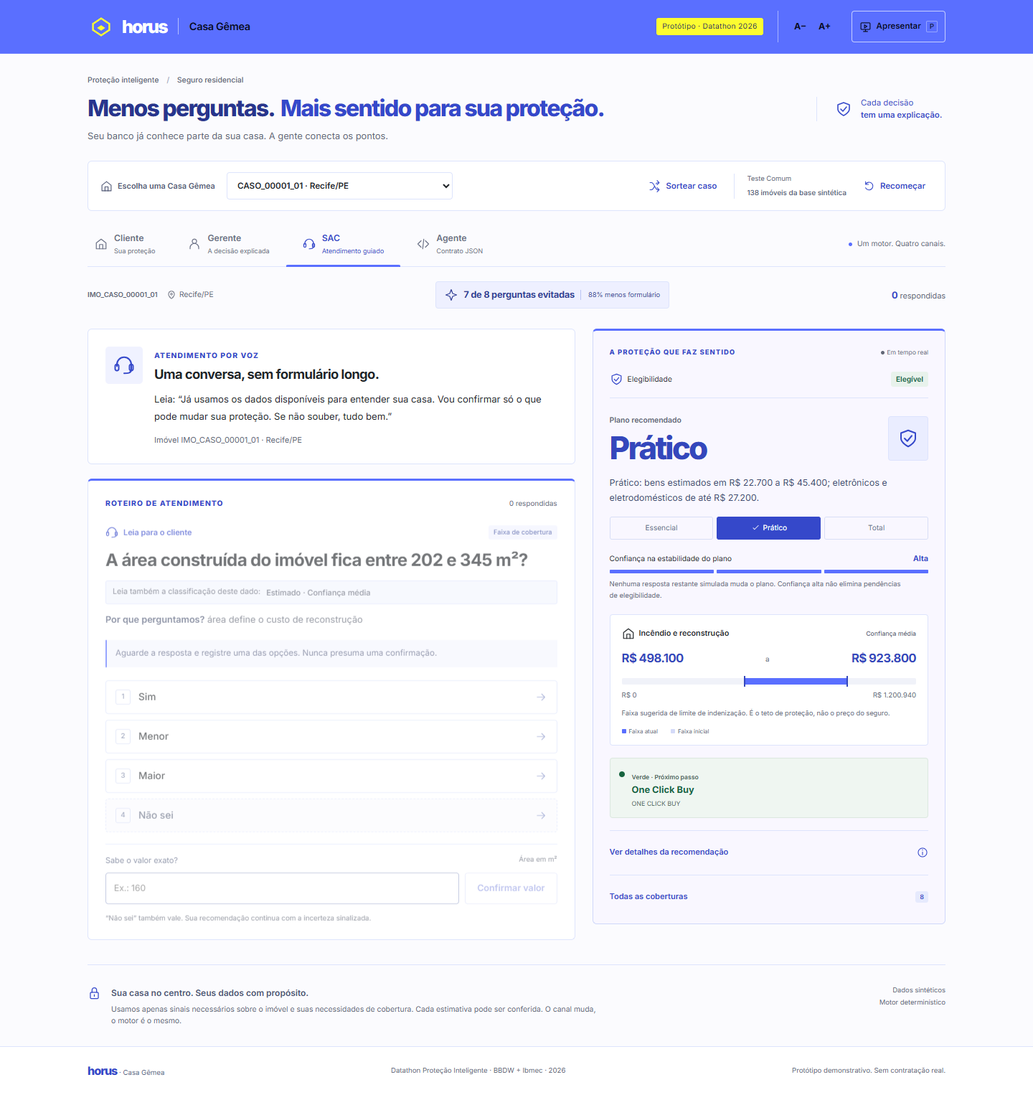
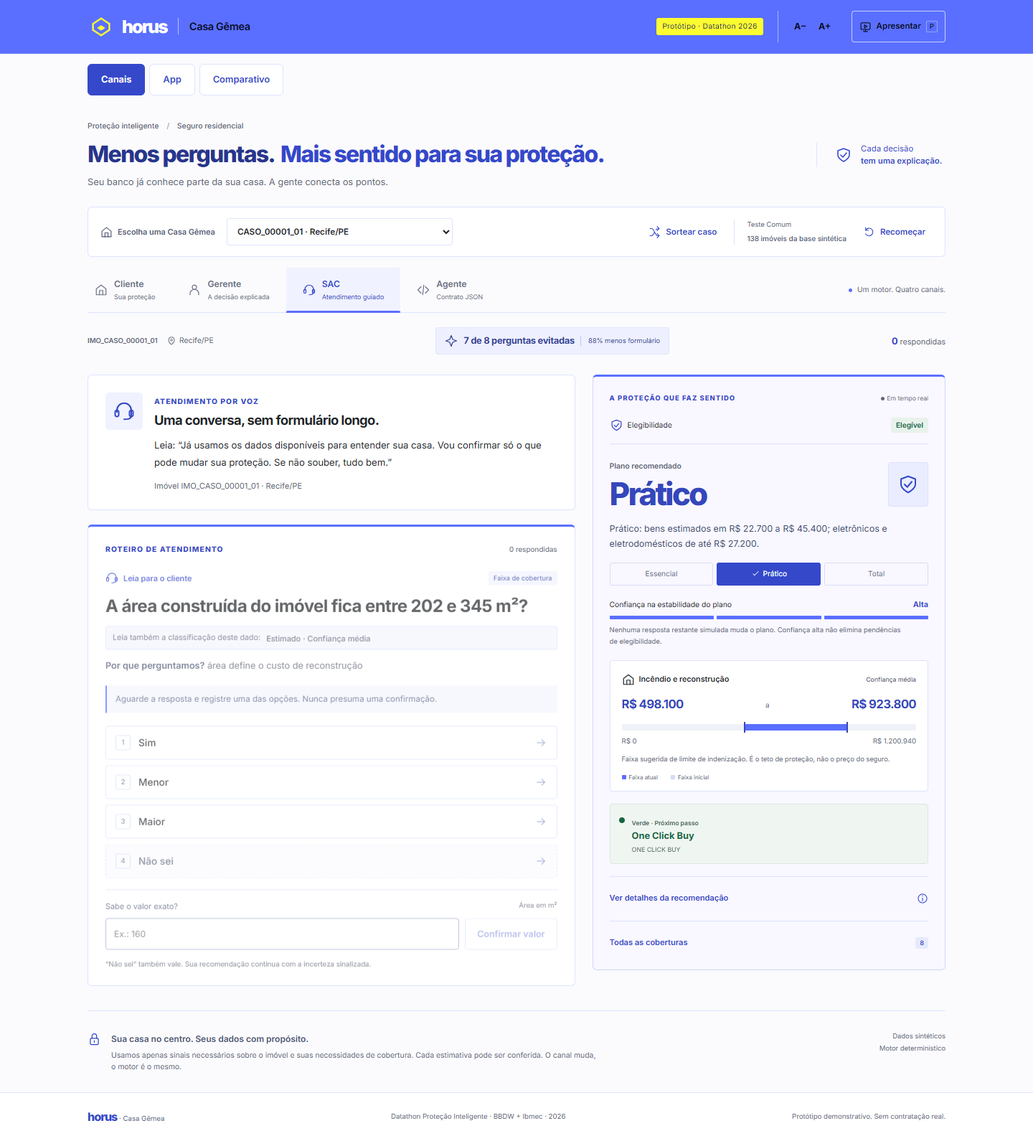
Web-app: aba App (simulador do app com 3 personas), Como o motor pensou e Comparativo das personas

diff --git a/web/src/AppSim.tsx b/web/src/AppSim.tsx
@@ -1,0 +1,110 @@
+import { useEffect, useRef, useState } from 'react'
+import type { Adicional, Respostas, ResultadoPersonalizado } from './types'
+import { buscarPersona, chaveAdicional, jornadaRotulo, personas } from './personas'
+import { planos, reais, texto } from './format'
+import { Icon } from './Icons'
+import { House } from './House'
+import { Modal } from './Modal'
+import { MotorSheet } from './MotorPensou'
+
+const tons = { EXPRESS: 'tom-express', GUIADA: 'tom-guiada', HUMANA: 'tom-humana' } as const
+const nivelTexto = (n: string) => (n === 'ALTA' ? 'alta' : n === 'MEDIA' ? 'média' : 'baixa')
+
+function CartaoAdicional({ a, resposta, dispensado, onResponder, onAdicionar, onDispensar }: {
+  a: Adicional; resposta?: string; dispensado: boolean; onResponder: (v: string) => void; onAdicionar: () => void; onDispensar: () => void;
+}) {
+  const adicionado = resposta === 'SIM' || resposta === 'ADD'
+  return <article className={`sim-add ${adicionado ? 'added' : ''}`} aria-label={a.nome}>
+    <header><h4>{a.nome}</h4><span className={`sim-badge n-${a.nivel.toLowerCase()}`}>Necessidade {nivelTexto(a.nivel)} · {a.necessidade}</span></header>
+    <p className="sim-why"><b>Por que é para você:</b> {texto(a.por_que_para_voce)}</p>
+    {a.faixa_valor_min !== undefined && a.faixa_valor_max !== undefined && <p className="sim-range">Limite sugerido de indenização: <b>{reais(a.faixa_valor_min)} a {reais(a.faixa_valor_max)}</b><small> Estimativa, confiança média. Não é preço.</small></p>}
+    <details><summary>Cuidados e base</summary><p>{texto(a.cuidado)} ({a.clausula})</p></details>
+    {a.pergunta && !adicionado && !dispensado && <div className="sim-ask" role="group" aria-label={a.pergunta}><p>{texto(a.pergunta)}</p>
+      <div>{[['SIM', 'Sim'], ['NAO', 'Não'], ['NAO_SEI', 'Não sei']].map(([v, r]) => <button key={v} className="sim-chip" onClick={() => onResponder(v)}>{r}</button>)}</div></div>}
+    {adicionado ? <p className="sim-done" role="status"><Icon name="check" size={16} />Adicionado ao seu plano</p>
+      : !dispensado && (!a.pergunta || resposta === 'NAO_SEI') && <div className="sim-actions"><button className="button primary" onClick={onAdicionar}>Adicionar</button><button className="text-button" onClick={onDispensar}>Agora não</button></div>}
+    {dispensado && <p className="small-note">Deixamos de lado por enquanto.</p>}
+  </article>
+}
+
+export function AppSim({ onComparar }: { onComparar: () => void }) {
+  const [id, setId] = useState(personas[0].id)
+  const [respostas, setRespostas] = useState<Record<string, Respostas>>({})
+  const [data, setData] = useState<ResultadoPersonalizado | null>(null)
+  const [erro, setErro] = useState('')
+  const [tela, setTela] = useState<'home' | 'jornada'>('home')
+  const [personalizar, setPersonalizar] = useState(true)
+  const [recibos, setRecibos] = useState(false)
+  const [motor, setMotor] = useState(false)
+  const [escolhas, setEscolhas] = useState<Record<string, string>>({})
+  const [dispensados, setDispensados] = useState<string[]>([])
+  const resp = respostas[id] ?? {}
+  const seq = useRef(0)
+
+  useEffect(() => {
+    const n = ++seq.current, ctrl = new AbortController()
+    setErro('')
+    buscarPersona(id, resp, ctrl.signal).then(r => { if (n === seq.current) setData(r) })
+      .catch(e => { if (!ctrl.signal.aborted) setErro(e.message) })
+    return () => ctrl.abort()
+  }, [id, respostas]) // eslint-disable-line react-hooks/exhaustive-deps
+
+  const pers = data?.personalizacao
+  const perfil = pers?.perfil
+  const pergunta = data?.proximas_perguntas[0]
+  const tom = personalizar && perfil ? tons[perfil.jornada] : 'tom-neutro'
+  function trocar(novo: string) { if (novo !== id) { setId(novo); setData(null) }; setTela('home'); setEscolhas({}); setDispensados([]); setPersonalizar(true) }
+  function responder(campo: string, v: string | number) { setRespostas(r => ({ ...r, [id]: { ...(r[id] ?? {}), [campo]: v } })) }
+  function adicional(a: Adicional, v: string) {
+    if (a.pergunta) responder(chaveAdicional(a.id), v)
+    setEscolhas(e => ({ ...e, [a.id]: v }))
+  }
+  const fire = data?.coberturas.find(c => c.cobertura === 'INCENDIO_RAIO_EXPLOSAO_FUMACA')
+  const visiveis = (pers?.adicionais_sugeridos ?? []).filter(a => !(a.pergunta && resp[chaveAdicional(a.id)] === 'NAO'))
+  const nome = personas.find(p => p.id === id)?.nome
+
+  return <section className="sim" aria-label="Simulador do app do banco">
+    <div className="sim-personas" role="group" aria-label="Escolha uma persona">
+      {personas.map(p => <button key={p.id} aria-pressed={id === p.id} className={id === p.id ? 'active' : ''} onClick={() => trocar(p.id)}><b>{p.nome}</b><small>{p.frase}</small></button>)}
+    </div>
+    <div className="sim-tools"><button className="button secondary" onClick={() => setMotor(true)} disabled={!data}>Como o motor pensou</button><button className="button secondary" onClick={onComparar}>Comparar as 3 personas</button></div>
+    {erro && <div className="error-banner" role="alert"><Icon name="info" /><div><strong>Não foi possível consultar o motor.</strong><p>{texto(erro)}</p></div></div>}
+    <div className="phone" data-testid="celular-simulado"><div className="phone-screen">
+      {!data ? <div className="loading-state" role="status"><p>Carregando a persona...</p></div> : tela === 'home' ? <div className="bank-home">
+        <header className="bank-head"><span>Olá, {nome}</span><span className="bank-proto">Banco fictício</span></header>
+        <div className="bank-balance"><small>Saldo disponível</small><b>R$ 4.280,00</b></div>
+        <div className="bank-shortcuts" aria-hidden="true">{['Pix', 'Pagar', 'Cartões', 'Investir'].map(s => <span key={s}>{s}</span>)}</div>
+        {pers && <button className={`notif ${tom}`} onClick={() => setTela('jornada')} data-testid="notificacao">
+          <span className="notif-top"><Icon name="shield" size={16} />Sugestão para a sua casa</span>
+          <strong>{personalizar ? texto(pers.mensagem_do_app.titulo) : 'Conheça o seguro residencial'}</strong>
+          <span>{personalizar ? texto(pers.mensagem_do_app.texto) : 'Proteja a sua casa com um plano básico.'}</span><span className="notif-cta">Ver sugestão</span></button>}
+      </div> : data.elegibilidade.status === 'INELEGIVEL' ? <div className="jornada"><button className="text-button" onClick={() => setTela('home')}>← Voltar</button><p>Este imóvel precisa de validação com um especialista.</p></div> : <div className={`jornada ${tom}`}>
+        <div className="jornada-top"><button className="text-button" onClick={() => setTela('home')}>← Voltar</button>
+          <label className="switch"><input type="checkbox" role="switch" checked={personalizar} onChange={e => setPersonalizar(e.target.checked)} /><span>Personalizar para mim</span></label></div>
+        {personalizar && perfil && <p className="sim-profile"><span className="sim-badge">{perfil.rotulo}</span> Jornada {jornadaRotulo[perfil.jornada]}. <button className="link" onClick={() => setRecibos(true)}>Por que estou vendo isto?</button></p>}
+        {!personalizar && <p className="small-note">Versão padrão, sem tom, destaques nem adicionais. <button className="link" onClick={() => setRecibos(true)}>Por que estou vendo isto?</button></p>}
+        <details className="mobile-twin" open><summary><Icon name="home" size={18} /><span>Sua Casa Gêmea<small>Cada dado com selo e confiança</small></span></summary><House casa={data.casa_gemea} location={data.imovel_id} imovel={id} /></details>
+        {pergunta && <section className="sim-q" aria-live="polite"><h3>{texto(pergunta.pergunta)}</h3>
+          {personalizar && perfil?.jornada === 'GUIADA' && <p className="small-note"><b>Por que perguntamos:</b> {texto(pergunta.motivo)}</p>}
+          <div className="sim-opts">{[...pergunta.opcoes, ...(pergunta.opcoes.some(o => o.valor === 'NAO_SEI') ? [] : [{ valor: 'NAO_SEI', rotulo: 'Não sei' }])].map(o => <button key={o.valor} className="sim-chip" onClick={() => responder(pergunta.id, o.valor)}>{texto(o.rotulo)}</button>)}</div>
+          {personalizar && perfil?.jornada === 'HUMANA' && <button className="button secondary sim-human" onClick={() => setEscolhas(e => ({ ...e, __especialista: 'SIM' }))}>Falar com um especialista</button>}
+          {escolhas.__especialista && <p className="sim-done" role="status">Simulação: um especialista entraria em contato.</p>}</section>}
+        <section className="sim-plan"><span className="eyebrow">Seu plano</span><h3>{planos[data.recomendacao.plano] ?? 'Sem plano'}</h3>
+          <p>{texto(data.recomendacao.justificativa_curta)}</p>
+          {fire && <p className="sim-range">Limite sugerido de indenização para incêndio: <b>{reais(fire.faixa_valor_min)} a {reais(fire.faixa_valor_max)}</b><small> Confiança {nivelTexto(fire.confianca)}. Não é preço.</small></p>}
+          <p className="small-note">Canal: {data.canal.semaforo.toLowerCase()} · {data.jornada.perguntas_evitadas} de {data.jornada.campos_formulario_tradicional} perguntas evitadas.</p></section>
+        {personalizar && pers && <>
+          {pers.alertas.map(al => <p key={al.tipo} className="sim-alert" role="note"><Icon name="info" size={16} />{texto(al.texto)}</p>)}
+          {visiveis.length > 0 && <section><h3>Adicionais para a sua casa</h3>{visiveis.map(a => <CartaoAdicional key={a.id} a={a} resposta={escolhas[a.id] ?? resp[chaveAdicional(a.id)]} dispensado={dispensados.includes(a.id)}
+            onResponder={v => adicional(a, v)} onAdicionar={() => adicional(a, a.pergunta ? 'SIM' : 'ADD')} onDispensar={() => setDispensados(d => [...d, a.id])} />)}</section>}
+          <section className="sim-assist"><h3>Assistências em destaque</h3><p className="small-note">Base do plano: {pers.assistencias.base}</p>
+            {pers.assistencias.destaque.map(d => <p key={d.nome}><b>{d.nome}:</b> {texto(d.por_que)}</p>)}
+            {pers.assistencias.beneficio_premium_sugerido && <p><b>Benefício sugerido: {pers.assistencias.beneficio_premium_sugerido.nome}.</b> {texto(pers.assistencias.beneficio_premium_sugerido.por_que)}</p>}</section></>}
+        <p className="small-note">Protótipo sem contratação real. Idade e renda nunca são usadas.</p>
+      </div>}
+    </div></div>
+    <Modal open={recibos} onClose={() => setRecibos(false)} title="Por que estou vendo isto?" className="mp-sheet"><div className="sheet-header"><h2>Por que estou vendo isto?</h2><button className="button secondary" onClick={() => setRecibos(false)}>Fechar</button></div>
+      <div className="sheet-scroll"><p className="small-note">Dados do banco usados nesta sugestão. Idade e renda nunca entram.</p><ul className="sim-receipts">{pers?.recibos.map(r => <li key={r.dado}><b>{texto(r.dado)}</b><span>usado para {texto(r.usado_para)}</span></li>)}</ul></div></Modal>
+    {data && <MotorSheet open={motor} onClose={() => setMotor(false)} data={data} />}
+  </section>
+}

diff --git a/web/src/app.css b/web/src/app.css
@@ -1,0 +1,84 @@
+/* Visões App e Comparativo (simulador do app bancário, motor explicado, personas) */
+.view-nav { display: flex; gap: 6px; margin: 14px 0 6px; }
+.view-nav button { min-height: 44px; padding: 8px 18px; border: 1px solid var(--line); border-radius: 6px; background: white; font-weight: 600; font-size: .8rem; color: var(--ink-blue); }
+.view-nav button.active { background: var(--ink-blue); color: white; border-color: var(--ink-blue); }
+.sim { display: grid; gap: 14px; margin: 12px 0 28px; }
+.sim-personas { display: grid; grid-template-columns: repeat(3, 1fr); gap: 8px; }
+.sim-personas button { text-align: left; min-height: 64px; padding: 10px 12px; border: 1px solid var(--line); border-radius: 6px; background: white; display: grid; gap: 2px; }
+.sim-personas button.active { border-color: var(--ink-blue); box-shadow: inset 0 0 0 1px var(--ink-blue); background: #F2F4FF; }
+.sim-personas small { color: var(--muted); font-size: .68rem; line-height: 1.35; }
+.sim-tools { display: flex; gap: 8px; flex-wrap: wrap; }
+.phone { justify-self: center; width: 390px; max-width: 100%; border: 10px solid #20243C; border-radius: 34px; background: #20243C; }
+.phone-screen { background: #F4F5FB; border-radius: 24px; height: 760px; max-height: 80vh; overflow-y: auto; overscroll-behavior: contain; }
+.bank-home { padding: 20px 16px; display: grid; gap: 14px; align-content: start; }
+.bank-head { display: flex; justify-content: space-between; align-items: center; font-weight: 700; }
+.bank-proto { font-size: .62rem; background: #E6E9FA; border-radius: 3px; padding: 3px 7px; color: var(--muted); font-weight: 600; }
+.bank-balance { background: var(--ink-blue); color: white; border-radius: 8px; padding: 18px; display: grid; gap: 4px; }
+.bank-balance b { font-size: 1.6rem; }
+.bank-shortcuts { display: grid; grid-template-columns: repeat(4, 1fr); gap: 8px; text-align: center; font-size: .72rem; }
+.bank-shortcuts span { background: white; border: 1px solid var(--line); border-radius: 8px; padding: 14px 4px; }
+.notif { text-align: left; display: grid; gap: 6px; min-height: 44px; background: white; border: 1px solid var(--line); border-left: 4px solid var(--yellow); border-radius: 8px; padding: 14px; font-size: .8rem; line-height: 1.45; box-shadow: 0 2px 10px rgba(53,72,202,.12); }
+.notif strong { font-size: .92rem; }
+.notif-top { display: flex; gap: 6px; align-items: center; font-size: .66rem; font-weight: 700; letter-spacing: .04em; text-transform: uppercase; color: var(--ink-blue); }
+.notif-cta { color: var(--ink-blue); font-weight: 700; }
+.tom-humana { font-size: 1.08rem; }
+.tom-humana .sim-chip, .tom-humana .button { font-size: 1.05rem; min-height: 52px; }
+.jornada { padding: 14px 14px 26px; display: grid; gap: 14px; }
+.jornada h3 { font-size: .95rem; }
+.jornada-top { display: flex; justify-content: space-between; align-items: center; gap: 8px; flex-wrap: wrap; }
+.switch { display: inline-flex; align-items: center; gap: 8px; min-height: 44px; font-size: .78rem; font-weight: 600; }
+.switch input { width: 22px; height: 22px; accent-color: var(--ink-blue); }
+.link { color: var(--ink-blue); text-decoration: underline; min-height: 44px; padding: 0 4px; font-size: inherit; }
+.sim-profile { font-size: .78rem; line-height: 1.5; }
+.sim-badge { display: inline-block; font-size: .64rem; font-weight: 700; padding: 3px 8px; border-radius: 3px; background: #E6E9FA; color: var(--ink-blue); }
+.sim-q, .sim-plan, .sim-add, .sim-assist { background: white; border: 1px solid var(--line); border-radius: 8px; padding: 14px; display: grid; gap: 8px; font-size: .8rem; line-height: 1.5; }
+.sim-opts, .sim-ask > div { display: flex; flex-wrap: wrap; gap: 8px; }
+.sim-chip { min-height: 44px; padding: 8px 16px; border: 1px solid var(--ink-blue); border-radius: 6px; background: white; color: var(--ink-blue); font-weight: 600; font-size: .8rem; }
+.sim-chip:hover { background: #F2F4FF; }
+.sim-add header { display: flex; justify-content: space-between; gap: 8px; align-items: flex-start; }
+.sim-add h4 { font-size: .88rem; }
+.sim-add.added { border-color: var(--green); }
+.sim-range small { display: block; color: var(--muted); font-size: .66rem; }
+.sim-actions { display: flex; gap: 8px; align-items: center; }
+.sim-done { color: var(--green); font-weight: 700; display: flex; gap: 6px; align-items: center; }
+.sim-alert { display: flex; gap: 8px; background: #FFF9D6; border: 1px solid #E5D96B; border-radius: 6px; padding: 10px; font-size: .78rem; }
+.sim-receipts { list-style: none; padding: 0 18px 18px; display: grid; gap: 10px; }
+.sim-receipts li { display: grid; gap: 2px; font-size: .82rem; }
+.sim-receipts span { color: var(--muted); }
+.mp-sheet { width: min(560px, 100vw); max-height: 92vh; border: 0; border-radius: 12px; padding: 0; }
+.desktop-only { display: none; }
+@media (min-width: 900px) { .mp-sheet { margin: 0 0 0 auto; height: 100vh; max-height: 100vh; border-radius: 0; } }
+@media (max-width: 767px) { .mp-sheet { margin: auto 0 0; width: 100vw; max-width: 100vw; border-radius: 14px 14px 0 0; } }
+.mp-sheet .sheet-header { display: flex; justify-content: space-between; align-items: center; padding: 12px 18px; border-bottom: 1px solid var(--line); position: sticky; top: 0; background: white; }
+.mp-sheet .sheet-scroll { overflow-y: auto; max-height: 80vh; padding-bottom: 20px; }
+.mp { padding: 14px 18px; display: grid; gap: 20px; font-size: .84rem; line-height: 1.55; }
+.mp h3 { font-size: .92rem; margin-bottom: 6px; }
+.mp-result { font-weight: 700; color: var(--ink-blue); }
+.mp-checks, .mp-need, .mp-limits, .mp-bars ul { list-style: none; padding: 0; display: grid; gap: 8px; }
+.mp-checks li { display: flex; gap: 10px; }
+.mp-checks small { display: block; color: var(--muted); font-size: .68rem; }
+.mp-checks .ok, .mp-checks .pend { flex: none; width: 22px; height: 22px; border-radius: 50%; display: grid; place-items: center; font-weight: 800; font-size: .72rem; color: white; background: var(--green); }
+.mp-checks .pend { background: var(--amber); }
+.mp-bar { display: block; height: 10px; background: #E6E9FA; border-radius: 5px; overflow: hidden; flex: 1; min-width: 60px; }
+.mp-bar i { display: block; height: 100%; background: var(--ink-blue); }
+.mp-bar i.n-alta { background: var(--red); } .mp-bar i.n-media { background: var(--amber); } .mp-bar i.n-baixa { background: #5C6BA8; }
+.mp-bars li { display: grid; grid-template-columns: 80px 20px 1fr; gap: 8px; align-items: center; }
+.mp-need button { width: 100%; min-height: 44px; display: grid; grid-template-columns: minmax(0, 1.4fr) 1fr 28px; gap: 10px; align-items: center; text-align: left; font-size: .78rem; }
+.mp-factors { font-size: .74rem; color: var(--muted); padding: 2px 0 6px; }
+.comp-scroll { overflow-x: auto; }
+.comp table { border-collapse: collapse; width: 100%; font-size: .78rem; min-width: 640px; }
+.comp th, .comp td { border: 1px solid var(--line); padding: 10px; text-align: left; vertical-align: top; line-height: 1.45; }
+.comp thead th { background: var(--ink-blue); color: white; }
+.comp tbody th { background: #F2F4FF; width: 16%; }
+.comp ul { padding-left: 16px; }
+@media (max-width: 767px) {
+  .sim-personas { grid-template-columns: 1fr; }
+  .phone { border: 0; border-radius: 0; background: none; width: 100%; }
+  .phone-screen { height: auto; max-height: none; border-radius: 8px; }
+  .comp table { min-width: 560px; }
+}
+@media (max-width: 767px) {
+  /* No celular, a troca de visão fica no fim da página dos Canais para não empurrar a pergunta para baixo da recomendação. */
+  main.view-canais { display: flex; flex-direction: column; }
+  main.view-canais > .view-nav { order: 99; margin: 18px 0 8px; }
+}

diff --git a/web/src/App.tsx b/web/src/App.tsx
@@ -10,6 +10,9 @@ import { CasePicker } from './CasePicker'
 import { PwaControls } from './PwaControls'
 import { useMobile } from './useMobile'
 import { Agent, Manager } from './Channels'
+import { AppSim } from './AppSim'
+import { Comparativo } from './Comparativo'
+import './app.css'
 
 interface Session { history: Registro[]; result: Resultado; initial: Resultado }
 const canais: { label: Canal; icon: string; note: string }[] = [
@@ -35,6 +38,7 @@ export default function App() {
   const [presentation, setPresentation] = useState(false)
   const [step, setStep] = useState(0)
   const [font, setFont] = useState(100)
+  const [view, setView] = useState<'canais' | 'app' | 'comparativo'>('canais')
   const seq = useRef(0)
   const controller = useRef<AbortController | null>(null)
   const data = sessions[selected]?.result
@@ -148,7 +152,7 @@ export default function App() {
   return <div className={`app ${presentation ? `presentation focus-${step}` : ''}`}>
     <a className="skip-link" href="#conteudo">Pular para o conteúdo</a>
     <header className="topbar"><div className="topbar-inner"><a href="#conteudo" className="brand" aria-label="Horus, Casa Gêmea"><img src="/horus.svg" alt="" width="38" height="38" /><span>horus<span className="brand-divider" /><small>Casa Gêmea</small></span></a><div className="header-actions"><PwaControls /><span className="prototype">Protótipo · Datathon 2026</span><div className="font-controls" role="group" aria-label="Tamanho do texto"><button onClick={() => setFont(f => Math.max(90, f - 10))} aria-label="A− Diminuir texto" disabled={font <= 90}>A−</button><button onClick={() => setFont(f => Math.min(130, f + 10))} aria-label="A+ Aumentar texto" disabled={font >= 130}>A+</button></div><button className={`presentation-toggle ${presentation ? 'active' : ''}`} onClick={() => setPresentation(p => !p)} aria-pressed={presentation} aria-label="Apresentar, Modo apresentação" title="Atalho P"><Icon name="play" size={17} /><span>Apresentar</span><kbd>P</kbd></button></div></div></header>
-    <main id="conteudo"><section className="intro"><div><div className="breadcrumb">Proteção inteligente <span>/</span> Seguro residencial</div><h1>Menos perguntas.<br /><span>Mais sentido para sua proteção.</span></h1><p>Seu banco já conhece parte da sua casa. A gente conecta os pontos.</p></div><div className="intro-stamp"><Icon name="shield" size={24} /><span>Cada decisão<br /><b>tem uma explicação.</b></span></div></section>
+    <main id="conteudo" className={`view-${view}`}><nav className="view-nav" aria-label="Visão">{([['canais', 'Canais'], ['app', 'App'], ['comparativo', 'Comparativo']] as const).map(([v, r]) => <button key={v} aria-pressed={view === v} className={view === v ? 'active' : ''} onClick={() => setView(v)}>{r}</button>)}</nav>{view === 'app' && <AppSim onComparar={() => setView('comparativo')} />}{view === 'comparativo' && <Comparativo />}{view === 'canais' && <><section className="intro"><div><div className="breadcrumb">Proteção inteligente <span>/</span> Seguro residencial</div><h1>Menos perguntas.<br /><span>Mais sentido para sua proteção.</span></h1><p>Seu banco já conhece parte da sua casa. A gente conecta os pontos.</p></div><div className="intro-stamp"><Icon name="shield" size={24} /><span>Cada decisão<br /><b>tem uma explicação.</b></span></div></section>
 <CasePicker list={list} selected={selected} busy={busy} hasData={Boolean(data)} mobile={mobile} open={caseOpen} onClose={() => setCaseOpen(false)} onChoose={choose} onReset={() => void load(selected, [], 'Reinício')} />
       <nav className="channel-nav" aria-label="Canal de atendimento" data-mobile={String(mobile)}>{canais.map(c => <button key={c.label} aria-label={c.label} aria-pressed={channel === c.label} className={channel === c.label ? 'active' : ''} onClick={() => setChannel(c.label)}><Icon name={c.icon} size={18} /><span>{c.label}<small>{c.note}</small></span>{channel === c.label && <span className="nav-marker" />}</button>)}{mobile && <button className="mobile-case-button" aria-label="Escolher imóvel" aria-expanded={caseOpen} onClick={() => setCaseOpen(true)}><Icon name="pin" size={18} /><span>Imóvel</span></button>}<span className="one-engine"><span />Um motor. Quatro canais.</span></nav>
       {presentation && <div className="presentation-bar"><span><Icon name="play" size={17} />Apresentação <b>{step + 1} / 3</b></span><strong>{steps[step]}</strong><div><button aria-label="Etapa anterior" disabled={step === 0} onClick={() => setStep(s => s - 1)}>←</button><button aria-label="Próxima etapa" disabled={step === 2} onClick={() => setStep(s => s + 1)}>→</button><button onClick={() => setPresentation(false)}>Sair</button></div>{!mobile && <small>Setas navegam · números respondem · Esc sai</small>}</div>}
@@ -162,7 +166,7 @@ export default function App() {
           {channel === 'Agente' && <Agent data={data} answers={answersFrom(history)} busy={busy} onApply={applyJson} />}
         </div><MobileRecommendation key={selected} data={data} initial={sessions[selected]?.initial ?? null} pending={busy} mobile={mobile} presentationStep={presentation ? step : null} /></div>
       </>}
-      <section className="privacy-note"><Icon name="lock" size={19} /><div><strong>Sua casa no centro. Seus dados com propósito.</strong><p>Usamos apenas sinais necessários sobre o imóvel e suas necessidades de cobertura. Cada estimativa pode ser conferida. O canal muda, o motor é o mesmo.</p></div><span>Dados sintéticos<br />Motor determinístico</span></section>
+      </>}<section className="privacy-note"><Icon name="lock" size={19} /><div><strong>Sua casa no centro. Seus dados com propósito.</strong><p>Usamos apenas sinais necessários sobre o imóvel e suas necessidades de cobertura. Cada estimativa pode ser conferida. O canal muda, o motor é o mesmo.</p></div><span>Dados sintéticos<br />Motor determinístico</span></section>
     </main><footer><span><b>horus</b> · Casa Gêmea</span><p>Datathon Proteção Inteligente · BBDW + Ibmec · 2026</p><span>Protótipo demonstrativo. Sem contratação real.</span></footer>
   </div>
 }

diff --git a/web/src/MotorPensou.tsx b/web/src/MotorPensou.tsx
@@ -1,0 +1,38 @@
+import { useState } from 'react'
+import type { ResultadoPersonalizado } from './types'
+import { coberturas, planos, texto } from './format'
+import { Modal } from './Modal'
+
+function Barras({ titulo, itens, total }: { titulo: string; itens: { pontos: number; sinal: string }[]; total: number }) {
+  return <div className="mp-bars"><h4>{titulo}: {total} ponto{total === 1 ? '' : 's'}</h4>
+    {itens.length ? <ul>{itens.map(s => <li key={s.sinal}><span className="mp-bar"><i style={{ width: `${Math.min(100, s.pontos * 33)}%` }} /></span><b>{s.pontos}</b> {texto(s.sinal)}</li>)}</ul> : <p className="small-note">Nenhum sinal.</p>}</div>
+}
+
+export function MotorConteudo({ data }: { data: ResultadoPersonalizado }) {
+  const [aberta, setAberta] = useState('')
+  const passo = (id: string) => data.explicacao.passos.find(p => p.id === id)
+  const eleg = passo('elegibilidade'), plano = passo('plano'), perg = passo('perguntas')
+  return <div className="mp">
+    <section><h3>1. Este imóvel pode ser segurado?</h3><p className="mp-result">{eleg?.resultado === 'ELEGIVEL' ? 'Sim, sem pendências.' : texto(eleg?.resultado)}</p>
+      <ul className="mp-checks">{eleg?.checagens?.map(c => <li key={c.regra}><span className={c.ok && !c.pendente ? 'ok' : 'pend'} aria-hidden="true">{c.ok && !c.pendente ? '✓' : '!'}</span><span>{texto(c.regra)}<small>{c.pendente ? 'A confirmar com você' : c.ok ? 'Conferido' : 'Não atende'} · {c.base}</small></span></li>)}</ul></section>
+    <section><h3>2. Qual plano faz sentido?</h3><p className="mp-result">Plano {texto(plano?.resultado)}</p>
+      <Barras titulo="Prático" itens={plano?.sinais_pratico ?? []} total={plano?.pontos_pratico ?? 0} />
+      <Barras titulo="Total" itens={plano?.sinais_total ?? []} total={plano?.pontos_total ?? 0} />
+      <p className="small-note"><b>Regra:</b> {texto(plano?.regra)}</p>
+      <details><summary>Por que não o plano de baixo?</summary><p>{texto(plano?.por_que_nao_o_de_baixo)}</p></details>
+      <details><summary>Por que não o plano de cima?</summary><p>{texto(plano?.por_que_nao_o_de_cima)}</p></details></section>
+    <section><h3>3. O que ainda pode mudar o plano</h3>
+      <p>{perg?.campos_que_mudam_o_plano?.length ? `Só perguntamos o que muda o resultado: ${perg.campos_que_mudam_o_plano.join(', ')}.` : 'Nenhuma resposta restante muda o plano. Por isso paramos de perguntar.'}</p></section>
+    <section><h3>4. Necessidade por cobertura</h3><p className="small-note">Índice de 0 a 100. Toque para ver os fatores.</p>
+      <ul className="mp-need">{data.personalizacao.necessidades.map(n => <li key={n.cobertura}><button aria-expanded={aberta === n.cobertura} onClick={() => setAberta(aberta === n.cobertura ? '' : n.cobertura)}>
+        <span className="mp-need-name">{coberturas[n.cobertura] ?? n.cobertura}{n.no_plano_recomendado ? '' : <small> · fora do plano</small>}</span>
+        <span className="mp-bar"><i className={`n-${n.nivel.toLowerCase()}`} style={{ width: `${n.indice}%` }} /></span><b>{n.indice}</b></button>
+        {aberta === n.cobertura && <p className="mp-factors">{n.fatores.length ? n.fatores.map(f => `+${f.pontos} ${texto(f.fator)}`).join(' · ') : 'Sem fator específico: nível básico da carteira.'}</p>}</li>)}</ul></section>
+    <section><h3>5. Limites do motor</h3><ul className="mp-limits">{data.explicacao.limites_do_motor.map(l => <li key={l}>{texto(l)}</li>)}</ul>
+      <p className="small-note">As faixas são “limite sugerido de indenização”, não preço. O plano {planos[data.recomendacao.plano] ?? ''} é uma recomendação transparente, não uma contratação.</p></section>
+  </div>
+}
+
+export function MotorSheet({ open, onClose, data }: { open: boolean; onClose: () => void; data: ResultadoPersonalizado }) {
+  return <Modal open={open} onClose={onClose} title="Como o motor pensou" className="mp-sheet"><div className="sheet-header"><h2>Como o motor pensou</h2><button className="button secondary" onClick={onClose}>Fechar</button></div><div className="sheet-scroll"><MotorConteudo data={data} /></div></Modal>
+}

diff --git a/web/src/Comparativo.tsx b/web/src/Comparativo.tsx
@@ -1,0 +1,46 @@
+import { useEffect, useState } from 'react'
+import type { ResultadoPersonalizado } from './types'
+import { buscarPersona, jornadaRotulo, personas } from './personas'
+import { planos, reais, texto } from './format'
+
+const respostasProntas: Record<string, Record<string, string>> = {
+  IMO_CASO_00008_01: { conteudo: 'NA_FAIXA', declaracao_unica: 'SIM' },
+  IMO_CASO_00016_01: { obra: 'REFORMA_PEQUENA', declaracao_unica: 'SIM' },
+  IMO_CASO_00059_01: { ocupacao: 'DESOCUPADO', declaracao_unica: 'SIM' },
+}
+const canal = (r: ResultadoPersonalizado) => `${r.canal.semaforo.toLowerCase()} · ${r.canal.sugerido.toLowerCase().replace(/_/g, ' ')}`
+
+export function Comparativo() {
+  const [inicio, setInicio] = useState<ResultadoPersonalizado[] | null>(null)
+  const [fim, setFim] = useState<ResultadoPersonalizado[] | null>(null)
+  const [erro, setErro] = useState('')
+  useEffect(() => {
+    const ctrl = new AbortController()
+    Promise.all([
+      Promise.all(personas.map(p => buscarPersona(p.id, {}, ctrl.signal))),
+      Promise.all(personas.map(p => buscarPersona(p.id, respostasProntas[p.id], ctrl.signal))),
+    ]).then(([a, b]) => { setInicio(a); setFim(b) }).catch(e => { if (!ctrl.signal.aborted) setErro(e.message) })
+    return () => ctrl.abort()
+  }, [])
+  if (erro) return <div className="error-banner" role="alert"><div><strong>Não foi possível montar o comparativo.</strong><p>{texto(erro)}</p></div></div>
+  if (!inicio || !fim) return <div className="loading-state" role="status"><p>Comparando as 3 personas...</p></div>
+  const linhas: [string, (i: ResultadoPersonalizado, f: ResultadoPersonalizado) => React.ReactNode][] = [
+    ['Quem é', i => texto(i.personalizacao.perfil.descricao)],
+    ['Arquétipo', i => i.personalizacao.perfil.rotulo],
+    ['Jornada e tom', i => `${jornadaRotulo[i.personalizacao.perfil.jornada]}: ${texto(i.personalizacao.perfil.tom)}`],
+    ['Plano (início → fim)', (i, f) => `${planos[i.recomendacao.plano]} → ${planos[f.recomendacao.plano]}`],
+    ['Canal (início → fim)', (i, f) => `${canal(i)} → ${canal(f)}`],
+    ['Incêndio, limite sugerido (fim)', (_, f) => { const c = f.coberturas.find(x => x.cobertura === 'INCENDIO_RAIO_EXPLOSAO_FUMACA'); return c ? `${reais(c.faixa_valor_min)} a ${reais(c.faixa_valor_max)}` : '-' }],
+    ['Adicionais sugeridos', i => <ul>{i.personalizacao.adicionais_sugeridos.map(a => <li key={a.id}>{a.nome} ({a.necessidade})</li>)}</ul>],
+    ['Perguntas evitadas', (_, f) => `${f.jornada.perguntas_evitadas} de ${f.jornada.campos_formulario_tradicional}`],
+    ['Assistências em destaque', i => i.personalizacao.assistencias.destaque.map(d => d.nome).join(', ') || 'Base do plano'],
+    ['Alertas', i => i.personalizacao.alertas.length ? i.personalizacao.alertas.map(a => texto(a.texto)).join(' ') : 'Nenhum'],
+    ['Notificação do app', i => texto(i.personalizacao.mensagem_do_app.texto)],
+  ]
+  return <section className="comp" aria-label="Comparativo das três personas">
+    <h2>Mesmo motor, três jornadas</h2>
+    <p className="small-note">Nenhuma regra usa idade ou renda. A diferença vem do imóvel, do vínculo, das compras, de dependentes e pet e do uso do app (só para escolher o canal). Dados fictícios.</p>
+    <div className="comp-scroll"><table><thead><tr><th scope="col"><span className="sr-only">Item</span></th>{personas.map(p => <th scope="col" key={p.id}>{p.nome}</th>)}</tr></thead>
+      <tbody>{linhas.map(([rot, fn]) => <tr key={rot}><th scope="row">{rot}</th>{personas.map((p, k) => <td key={p.id}>{fn(inicio[k], fim[k])}</td>)}</tr>)}</tbody></table></div>
+  </section>
+}

diff --git a/web/src/types.ts b/web/src/types.ts
@@ -30,3 +30,28 @@ export interface Imovel { imovel_id: string; cliente_id: string; municipio: stri
 export interface Lista { imoveis: Imovel[]; campos_perguntaveis: string[]; versao_contrato: string }
 export interface Registro { campo: string; pergunta: string; rotulo: string; valor: ValorResposta }
 export type Canal = 'Cliente' | 'Gerente' | 'SAC' | 'Agente'
+
+export interface Perfil {
+  arquetipo: string; rotulo: string; descricao: string; sinais: string[]; jornada: 'EXPRESS' | 'GUIADA' | 'HUMANA';
+  jornada_motivo: string; tom: string; modo: string; relacionamento_seguridade: number;
+}
+export interface Necessidade { cobertura: string; indice: number; nivel: string; no_plano_recomendado: boolean; fatores: { pontos: number; fator: string }[] }
+export interface Adicional {
+  id: string; nome: string; necessidade: number; nivel: string; por_que_para_voce: string; clausula: string;
+  dados_usados: string; pergunta: string | null; cuidado: string; faixa_valor_min?: number; faixa_valor_max?: number; regra_da_faixa?: string;
+}
+export interface Personalizacao {
+  perfil: Perfil; necessidades: Necessidade[]; adicionais_sugeridos: Adicional[];
+  assistencias: { base: string; destaque: { nome: string; por_que: string }[]; so_em_plano_maior: { nome: string; por_que: string }[]; beneficio_premium_sugerido: { nome: string; por_que: string } | null };
+  alertas: { tipo: string; texto: string }[]; mensagem_do_app: { titulo: string; texto: string; tom: string };
+  recibos: { dado: string; usado_para: string }[]; premissas: string[];
+}
+export interface PassoExplicacao {
+  id: string; titulo: string; resultado?: string; motivo?: string; texto?: string; regra?: string;
+  checagens?: { regra: string; ok: boolean; base: string; pendente?: boolean; estado?: string }[];
+  pontos_pratico?: number; pontos_total?: number; sinais_pratico?: { pontos: number; sinal: string }[]; sinais_total?: { pontos: number; sinal: string }[];
+  por_que_nao_o_de_baixo?: string; por_que_nao_o_de_cima?: string; campos_que_mudam_o_plano?: string[];
+}
+export interface Explicacao { passos: PassoExplicacao[]; limites_do_motor: string[] }
+export interface ResultadoPersonalizado extends Resultado { personalizacao: Personalizacao; explicacao: Explicacao }
+export interface Persona { id: string; nome: string; frase: string }

diff --git a/web/src/personas.ts b/web/src/personas.ts
@@ -1,0 +1,12 @@
+import type { Persona, ResultadoPersonalizado } from './types'
+import { recomendar } from './api'
+
+export const personas: Persona[] = [
+  { id: 'IMO_CASO_00008_01', nome: 'Marina', frase: 'Inquilina de apartamento, com família e pet, usa muito o app.' },
+  { id: 'IMO_CASO_00016_01', nome: 'Rafael', frase: 'Dono de casa financiada, muitos eletrônicos, obra recente.' },
+  { id: 'IMO_CASO_00059_01', nome: 'Helena', frase: 'Apartamento de temporada que fica vazio, quase não usa o app.' },
+]
+export const chaveAdicional = (id: string) => ({ EQUIPAMENTOS_PORTATEIS: 'equipamentos', BICICLETA: 'bicicleta', DESOCUPACAO_TEMPORARIA: 'desocupacao' } as Record<string, string>)[id] ?? (id.includes('MEI') ? 'mei' : id.toLowerCase())
+export const buscarPersona = (id: string, respostas: Record<string, string | number> = {}, signal?: AbortSignal) =>
+  recomendar(id, respostas, signal) as Promise<ResultadoPersonalizado>
+export const jornadaRotulo = { EXPRESS: 'Express', GUIADA: 'Guiada', HUMANA: 'Com especialista' } as const

diff --git a/web/README.md b/web/README.md
@@ -132,3 +132,13 @@ Azul `#5A6FFF`, amarelo `#FCFC30` pontual, papel `#F9F7FF`, bordas `#DDE4FC`, ca
 - **Bugs conhecidos:** nenhum problema funcional confirmado pendente. A ferramenta de testes Python emite um aviso de depreciação de httpx em Starlette, sem impacto na aplicação. A verificação automatizada de acessibilidade não substitui uma auditoria manual completa com tecnologia assistiva.
 
 Não foram feitos commit ou push. A pasta de referência permanece fora da entrega de código. Frontend, testes e adaptador foram produzidos com assistência de IA; a decisão de seguro continua no motor determinístico do projeto.
+
+## Aba App, Motor e Comparativo (hiperpersonalização)
+
+Três visões no topo da página: **Canais** (as quatro de antes), **App** e **Comparativo**.
+
+- **App**: simulador de um app bancário genérico (sem marca do BB). Escolha Marina, Rafael ou Helena; toque no card "Sugestão para a sua casa" para abrir a jornada. O tom muda conforme o perfil (Express, Guiada, Com especialista). O interruptor "Personalizar para mim" mostra o plano base sem adicionais, destaques nem tom. "Por que estou vendo isto?" lista os dados usados (idade e renda nunca entram). Cada adicional tem a pergunta SIM/NÃO/NÃO SEI, "Adicionar" e "Agora não". Faixas são "limite sugerido de indenização", não preço.
+- **Como o motor pensou** (botão na aba App): elegibilidade, pontos do Prático e do Total, regra, por que não o plano de baixo/de cima, o que ainda pode mudar, necessidade por cobertura (toque para ver fatores) e limites do motor.
+- **Comparativo**: as três personas lado a lado (plano, canal, adicionais, jornada, perguntas evitadas, alertas), para um único quadro no vídeo.
+
+Demonstração: API no ar (`api/rodar.ps1`), abrir a aba App, percorrer as três personas, ligar e desligar a personalização, abrir "Como o motor pensou" e fechar no Comparativo. Evidências em `evidencias/app-*.png`, `motor-*.png` e `comparativo-*.png` (viewport 390 px).
